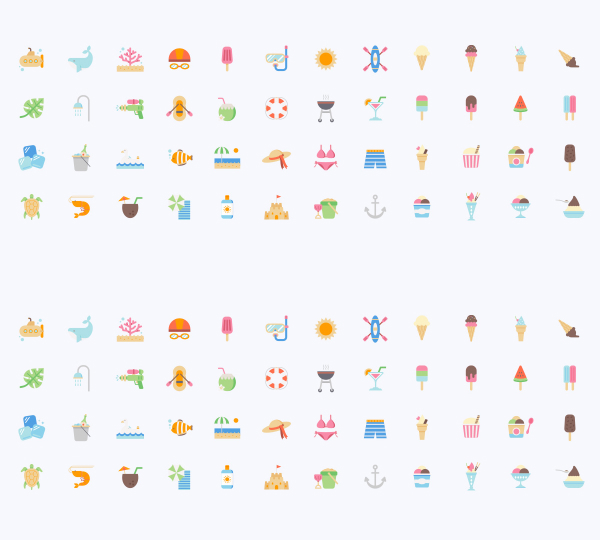
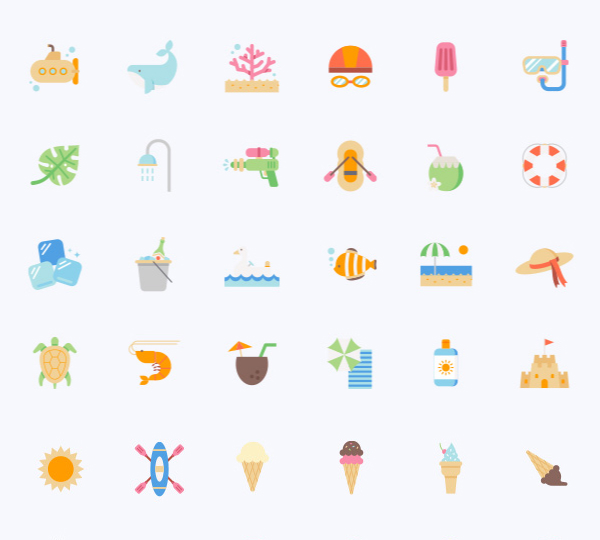
feat: 히어로 배너 이미지 교체 및 04~07 추가 (총 7장)

diff --git a/src/data/hero.ts b/src/data/hero.ts
@@ -4,6 +4,10 @@ export const HERO_IMAGES: string[] = [
   "/hero/hero-01.jpg",
   "/hero/hero-02.jpg",
   "/hero/hero-03.jpg",
+  "/hero/hero-04.jpg",
+  "/hero/hero-05.jpg",
+  "/hero/hero-06.jpg",
+  "/hero/hero-07.jpg",
 ];
 
 // HERO_IMAGES가 비어 있거나 로딩(SSR) 시 사용되는 폴백